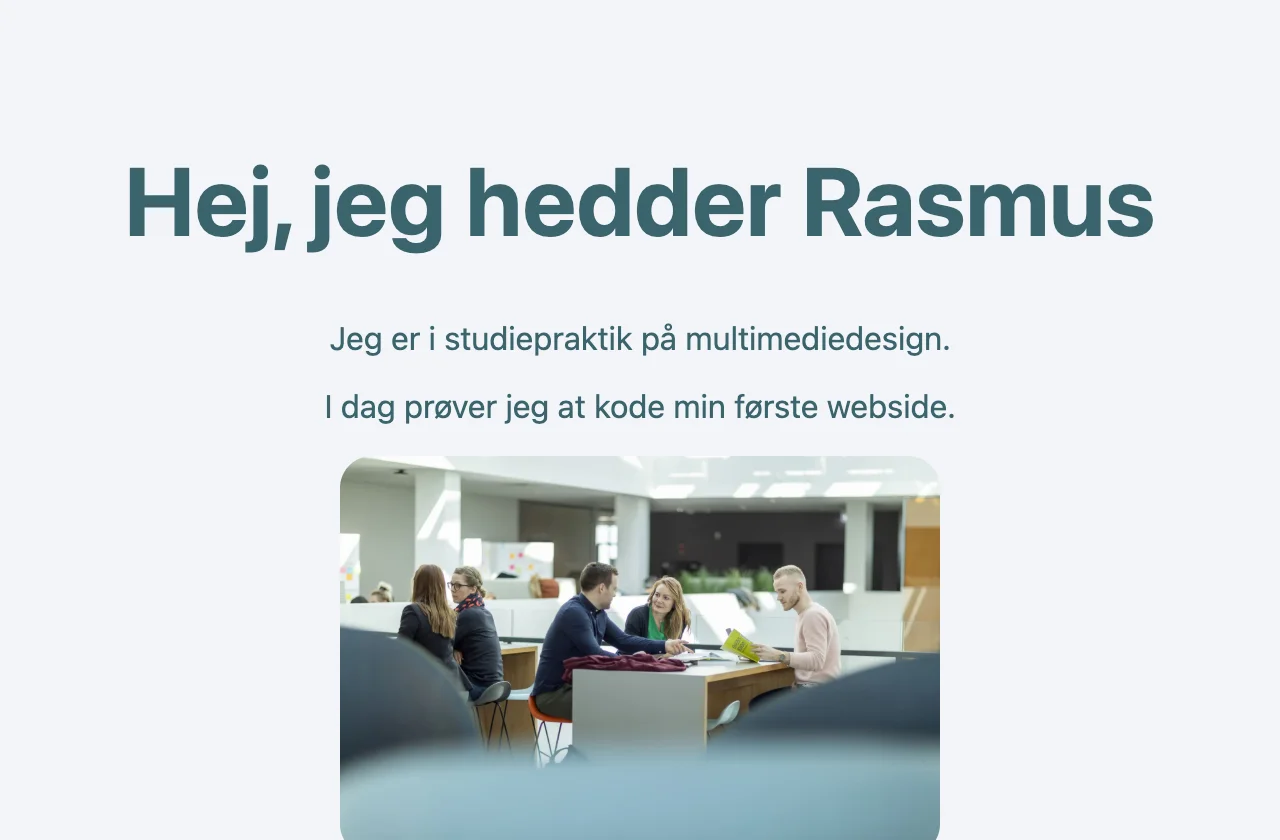
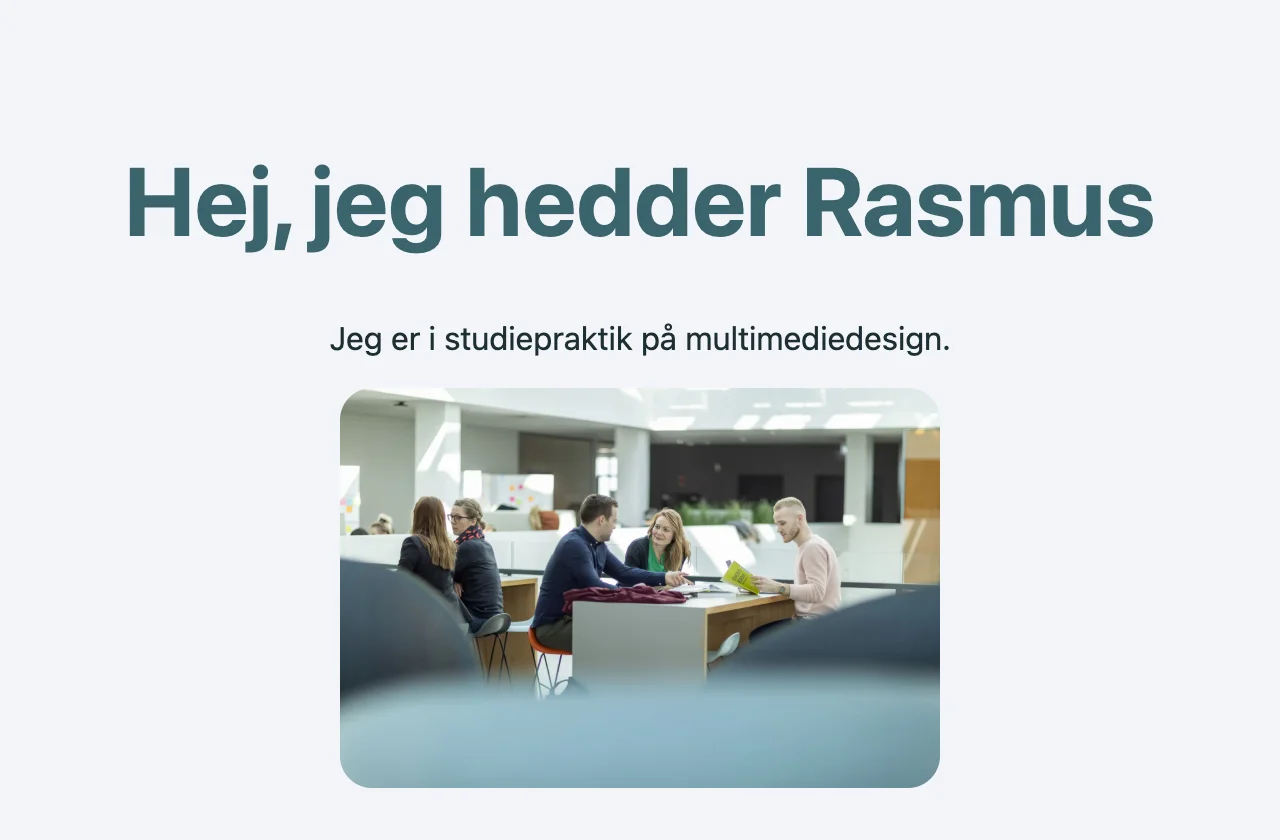
Refactor code structure for improved readability and maintainability

Changed region(s): [[0.25, 0.4643, 0.75, 1.0], [0.25, 0.3714, 0.75, 0.4333]]

diff --git a/index.html b/index.html
@@ -771,27 +771,57 @@ button {
     </aside>
   </section>
 
+  <section>
+    <p class="kicker">Hvor meget kan CSS?</p>
+    <h2>Samme HTML, <strong>forskellig CSS</strong></h2>
+    <div class="css-galleri">
+      <figure>
+        <img src="assets/images/css-ingen.webp" alt="Siden uden CSS: sort tekst på hvid baggrund i browserens standardskrift">
+        <figcaption>Ingen CSS</figcaption>
+      </figure>
+      <figure>
+        <img src="assets/images/css-tema-1.webp" alt="Tema 1: mørk baggrund, lyseblå overskrift og tre afrundede kort ved siden af hinanden">
+        <figcaption>Tema 1</figcaption>
+      </figure>
+      <figure>
+        <img src="assets/images/css-tema-2.webp" alt="Tema 2: lys gul baggrund og tre farvede cirkler, der hælder lidt">
+        <figcaption>Tema 2</figcaption>
+      </figure>
+      <figure>
+        <img src="assets/images/css-tema-3.webp" alt="Tema 3: avisstil med serif-skrift, versal overskrift og tre spalter">
+        <figcaption>Tema 3</figcaption>
+      </figure>
+      <figure>
+        <img src="assets/images/css-tema-4.webp" alt="Tema 4: sort baggrund, orange lysende overskrift og gule kasser med tykke kanter">
+        <figcaption>Tema 4</figcaption>
+      </figure>
+      <div class="css-galleri__tekst">
+        <p>HTML'en er præcis den samme. Kun CSS'en er skiftet.</p>
+        <p class="lille">Prøv selv: <a href="https://www.w3schools.com/css/css_intro.asp">w3schools.com/css</a></p>
+      </div>
+    </div>
+    <aside class="notes">
+      Tid: 2 min. Pointe: Det er den samme HTML i alle fem. Kun CSS'en er skiftet: farver, skrift, layout og former.
+      Vis det live: Åbn codesandbox/css-eksempel (eller den sandbox, du har lagt op), og klik mellem temaerne.
+      Eller brug w3schools' demo, hvor man skifter mellem fire stylesheets.
+      [LINK: CodeSandbox, CSS-eksempel]
+    </aside>
+  </section>
+
   <section class="kode-slide" id="trin-3">
     <p class="kicker">Trin 3 · JavaScript</p>
     <h2><strong>JavaScript</strong> er opførslen</h2>
     <div class="kode-og-resultat">
       <div class="kode-kolonne">
-        <pre><code class="language-javascript" data-trim data-line-numbers="1-6|8-10|12-16|14-15">
-// 1. En liste med fun facts
-const fakta = [
-  "MDU tager 2 år – med praktik i en rigtig virksomhed.",
-  "Du lærer både design, UX, content og kode.",
-  "Du arbejder i projekter sammen med andre."
-];
-
-// 2. Find knappen og tekstfeltet på siden
+        <pre><code class="language-javascript" data-trim data-line-numbers="1-3|5-6|7|8">
+// 1. Find knappen og tekstfeltet på siden
 const knap = document.querySelector("button");
 const tekst = document.querySelector("#fakta");
 
-// 3. Når der klikkes: vis et tilfældigt fact
+// 2. Når der klikkes: vis nyt indhold, og skift farve
 knap.addEventListener("click", function () {
-  const nr = Math.floor(Math.random() * fakta.length);
-  tekst.textContent = fakta[nr];
+  tekst.textContent = "På MDU lærer du både design og kode!";
+  document.body.style.backgroundColor = "#3a646d";
 });
         </code></pre>
         <p class="lille">Fil: <code>app.js</code> · kobles på lige før <code>&lt;/body&gt;</code> med <code>&lt;script src="app.js"&gt;&lt;/script&gt;</code></p>
@@ -804,11 +834,11 @@ knap.addEventListener("click", function () {
     <aside class="notes">
       Tid: 09.18–09.23 (5 min.).
       JavaScript ligger i app.js og kobles på nederst i body.
-      1) En liste (et array) med tekster. Hver tekst i anførselstegn, og komma imellem.
-      2) Vi finder knappen og den tomme p på siden. Det er sådan, JS »får fat i« HTML.
-      3) addEventListener: »Når nogen klikker, så gør det her.«
-      4) Vælg et tilfældigt nummer, og skriv teksten ind på siden.
-      Pointe: Det er en rigtig, interaktiv side. Og det er præcis den kode, der ligger i jeres starter.
+      1) Linje 1–3: Vi finder knappen og den tomme p på siden. Sådan »får JS fat i« HTML.
+      2) Linje 5–6: Når nogen klikker på knappen, så … (hvem og hvornår fra »Sådan læser du koden«).
+      3) Linje 7: … skriver vi ny tekst ind på siden.
+      4) Linje 8: … og skifter baggrundsfarven.
+      Pointe: To linjer, og siden reagerer. Det er samme mønster som fun fact-knappen i jeres starter.
       Overgang: »Nu prøver I selv, i CodeSandbox.«
     </aside>
   </section>
@@ -840,33 +870,45 @@ knap.addEventListener("click", function () {
   </section>
 
   <section>
-    <div class="to-kolonner" style="grid-template-columns: 1fr 1.05fr; gap: 48px;">
-      <div>
-        <p class="kicker">Øvelse 1 · index.html og styles.css</p>
-        <h2>1 · <strong>HTML</strong> og CSS</h2>
-        <ol class="trin oevelse-trin">
-          <li><span>Skriv dit navn i overskriften <code>&lt;h1&gt;</code></span></li>
-          <li><span>Tilføj et afsnit mere med <code>&lt;p&gt;</code></span></li>
-          <li><span>Centrér det hele, og skift farve og skriftstørrelse i <code>styles.css</code></span></li>
-          <li><span>Tilføj et billede med <code>&lt;img&gt;</code>, og sæt bredden</span></li>
+    <p class="kicker">Øvelse 1 · index.html og styles.css</p>
+    <h2>1 · <strong>HTML</strong> og CSS</h2>
+    <div class="oevelse-1">
+      <div class="kort" style="--farve: var(--mellow-rose);">
+        <h3>HTML · index.html</h3>
+        <ol class="oevelse-liste">
+          <li>Skriv dit navn i <code>&lt;h1&gt;</code></li>
+          <li>Skriv tre ting om dig selv i <code>&lt;li&gt;</code></li>
+          <li>Tilføj et billede med <code>&lt;img&gt;</code></li>
+          <li>Tilføj et link med <code>&lt;a&gt;</code>, fx til eaaa.dk</li>
         </ol>
-        <p class="lille">Øvelse: <span class="pladsholder-tekst">[LINK: CodeSandbox, øvelse 1]</span> · Løsning: <span class="pladsholder-tekst">[LINK: CodeSandbox, øvelse 1, løsning]</span></p>
+      </div>
+      <div class="kort" style="--farve: var(--seafoam);">
+        <h3>CSS · styles.css</h3>
+        <ol class="oevelse-liste" start="5">
+          <li>Giv siden en baggrundsfarve: <code>background</code></li>
+          <li>Skift farve og størrelse på overskriften: <code>color</code>, <code>font-size</code></li>
+          <li>Centrér teksten: <code>text-align</code></li>
+          <li>Giv billedet bredde og runde hjørner: <code>width</code>, <code>border-radius</code></li>
+        </ol>
+        <p class="lille">Bonus: farve på linket, når musen er over: <code>a:hover</code></p>
       </div>
       <div class="foer-efter">
         <figure class="resultat">
           <figcaption>Start</figcaption>
-          <img src="assets/images/oevelse-1-start.webp" alt="Startsiden: en overskrift »Hej, jeg hedder …« og et afsnit uden styling">
+          <img src="assets/images/oevelse-1-start.webp" alt="Startsiden: overskriften »Hej, jeg hedder …«, et afsnit og en tom liste med tre punkter uden styling">
         </figure>
         <figure class="resultat">
           <figcaption>Mål</figcaption>
-          <img src="assets/images/oevelse-1-maal.webp" alt="Løsningen: centreret tekst i farve, en stor overskrift med navn, to afsnit og et billede med runde hjørner">
+          <img src="assets/images/oevelse-1-maal.webp" alt="Løsningen: centreret tekst i farve, en stor overskrift med navn og et billede med runde hjørner">
         </figure>
       </div>
     </div>
+    <p class="lille" style="margin-top: 0.8em;">Øvelse: <span class="pladsholder-tekst">[LINK: CodeSandbox, øvelse 1]</span> · Løsning: <span class="pladsholder-tekst">[LINK: CodeSandbox, øvelse 1, løsning]</span></p>
     <aside class="notes">
-      Tid: 09.25–09.31 (6 min.). Kod med på storskærmen, mens de prøver selv.
-      Tip: text-align: center på body centrerer alt. Billedet i løsningen ligger i sandboxen som billede.webp.
-      De kan også bruge et link til et billede fra nettet i src.
+      Tid: 09.25–09.33 (8 min.). Starteren er en lille »Om mig«-side med overskrift, afsnit og en liste.
+      Lad dem tage HTML-opgaverne først og derefter CSS. Kod med på storskærmen.
+      Tip: text-align: center på body centrerer alt. Billedet i løsningen ligger i sandboxen som billede.webp,
+      men de kan også bruge et link til et billede fra nettet i src.
       Filerne ligger i codesandbox/1-html-css og codesandbox/1-html-css-loesning.
     </aside>
   </section>

diff --git a/css/eaaa-tema.css b/css/eaaa-tema.css
@@ -1361,6 +1361,73 @@ html.reveal-print .reveal > .cover-video {
   padding: 18px 16px;
 }
 
+/* Øvelse 1: HTML-opgaver, CSS-opgaver og start/mål */
+.reveal .oevelse-1 {
+  display: grid;
+  grid-template-columns: 1fr 1fr 0.9fr;
+  gap: 20px;
+  align-items: stretch;
+}
+
+.reveal .oevelse-1 .kort {
+  border-top: 8px solid var(--farve);
+  padding: 22px 24px;
+}
+
+.reveal .oevelse-1 h3 {
+  color: var(--farve);
+  font-size: 0.65em;
+  letter-spacing: 0.08em;
+  margin-bottom: 0.6em;
+}
+
+.reveal .oevelse-liste {
+  margin: 0 0 0.6em;
+  padding-left: 1.3em;
+  font-size: 0.56em;
+}
+
+.reveal .oevelse-liste li {
+  margin: 0.45em 0;
+}
+
+.reveal .oevelse-1 .lille {
+  font-size: 0.5em;
+  margin: 0;
+}
+
+/* Samme HTML, forskellig CSS */
+.reveal .css-galleri {
+  display: grid;
+  grid-template-columns: repeat(3, 1fr);
+  gap: 18px;
+}
+
+.reveal .css-galleri figure {
+  margin: 0;
+}
+
+.reveal .css-galleri img {
+  display: block;
+  width: 100%;
+  border-radius: 12px;
+  border: 2px solid var(--kant);
+}
+
+.reveal .css-galleri figcaption {
+  font-size: 0.45em;
+  font-weight: 700;
+  letter-spacing: 0.12em;
+  text-transform: uppercase;
+  color: var(--tekst-sekundaer);
+  margin-top: 8px;
+}
+
+.reveal .css-galleri__tekst {
+  align-self: center;
+  font-size: 0.7em;
+}
+
 /* Start og mål side om side */
 .reveal .foer-efter {
   display: grid;

diff --git a/infoside-starter/app.js b/infoside-starter/app.js
@@ -6,27 +6,14 @@
 
 // ---------- 1. FUN FACT-KNAP ----------
 
-// En liste (et "array") med fun facts.
-// Skriv jeres egne! Husk "anførselstegn" om teksten og komma mellem linjerne.
-const fakta = [
-  "Multimediedesign er en 2-årig erhvervsakademiuddannelse.",
-  "Du kommer i praktik i en rigtig virksomhed som en del af uddannelsen.",
-  "På MDU lærer du både design, UX, content og kode.",
-  "Du arbejder i projekter sammen med andre studerende.",
-  "Det, du lærer, kan bruges til websites, apps, spil, sociale medier og meget mere."
-];
-
 // Find knappen og tekstfeltet i index.html (via deres id)
 const faktaKnap = document.querySelector("#fakta-knap");
 const faktaTekst = document.querySelector("#fakta-tekst");
 
 // Når man klikker på knappen, kører koden mellem { og }
 faktaKnap.addEventListener("click", function () {
-  // Vælg et tilfældigt nummer fra 0 op til antallet af facts
-  const nr = Math.floor(Math.random() * fakta.length);
-
-  // Skriv det valgte fact ind på siden
-  faktaTekst.textContent = fakta[nr];
+  // Skriv jeres eget fun fact om MDU her – husk "anførselstegn" om teksten
+  faktaTekst.textContent = "Som multimediedesigner er du klar til job på 2 år.";
 });
 
 

diff --git a/infoside-starter/demo/trin-3/app.js b/infoside-starter/demo/trin-3/app.js
@@ -1,16 +1,9 @@
-// 1. En liste med fun facts
-const fakta = [
-  "MDU tager 2 år – med praktik i en rigtig virksomhed.",
-  "Du lærer både design, UX, content og kode.",
-  "Du arbejder i projekter sammen med andre."
-];
-
-// 2. Find knappen og tekstfeltet på siden
+// 1. Find knappen og tekstfeltet på siden
 const knap = document.querySelector("button");
 const tekst = document.querySelector("#fakta");
 
-// 3. Når der klikkes: vis et tilfældigt fact
+// 2. Når der klikkes: vis nyt indhold, og skift farve
 knap.addEventListener("click", function () {
-  const nr = Math.floor(Math.random() * fakta.length);
-  tekst.textContent = fakta[nr];
+  tekst.textContent = "På MDU lærer du både design og kode!";
+  document.body.style.backgroundColor = "#3a646d";
 });

diff --git a/codesandbox/1-html-css-loesning/index.html b/codesandbox/1-html-css-loesning/index.html
@@ -9,8 +9,16 @@
 <body>
   <h1>Hej, jeg hedder Rasmus</h1>
   <p>Jeg er i studiepraktik på multimediedesign.</p>
-  <p>I dag prøver jeg at kode min første webside.</p>
   <img src="billede.webp" alt="Studerende, der snakker sammen ved et bord">
+
+  <h2>Tre ting om mig</h2>
+  <ul>
+    <li>Jeg kan lide at tegne</li>
+    <li>Jeg laver videoer til TikTok</li>
+    <li>Jeg er nysgerrig på kode</li>
+  </ul>
+
+  <a href="https://www.eaaa.dk">Læs om MDU på eaaa.dk</a>
 
   <script src="app.js"></script>
 </body>

diff --git a/codesandbox/1-html-css-loesning/styles.css b/codesandbox/1-html-css-loesning/styles.css
@@ -1,16 +1,31 @@
 body {
   font-family: system-ui, sans-serif;
-  text-align: center;
   background: #f3f4f7;
-  color: #3a646d;
+  color: #1d2f33;
+  text-align: center;
   padding: 2rem;
 }
 
 h1 {
+  color: #3a646d;
   font-size: 3rem;
+}
+
+ul {
+  list-style: none;
+  padding: 0;
 }
 
 img {
   width: 300px;
   border-radius: 1rem;
+}
+
+a {
+  color: #3a646d;
+  font-weight: bold;
+}
+
+a:hover {
+  color: #e47125;
 }

diff --git a/codesandbox/1-html-css/index.html b/codesandbox/1-html-css/index.html
@@ -10,6 +10,13 @@
   <h1>Hej, jeg hedder …</h1>
   <p>Jeg er i studiepraktik på multimediedesign.</p>
 
+  <h2>Tre ting om mig</h2>
+  <ul>
+    <li>…</li>
+    <li>…</li>
+    <li>…</li>
+  </ul>
+
   <script src="app.js"></script>
 </body>
 </html>

diff --git a/codesandbox/1-html-css/styles.css b/codesandbox/1-html-css/styles.css
@@ -1,3 +1,4 @@
+/* Prøv at ændre farver, størrelser og afstande her */
 body {
   font-family: system-ui, sans-serif;
 }
